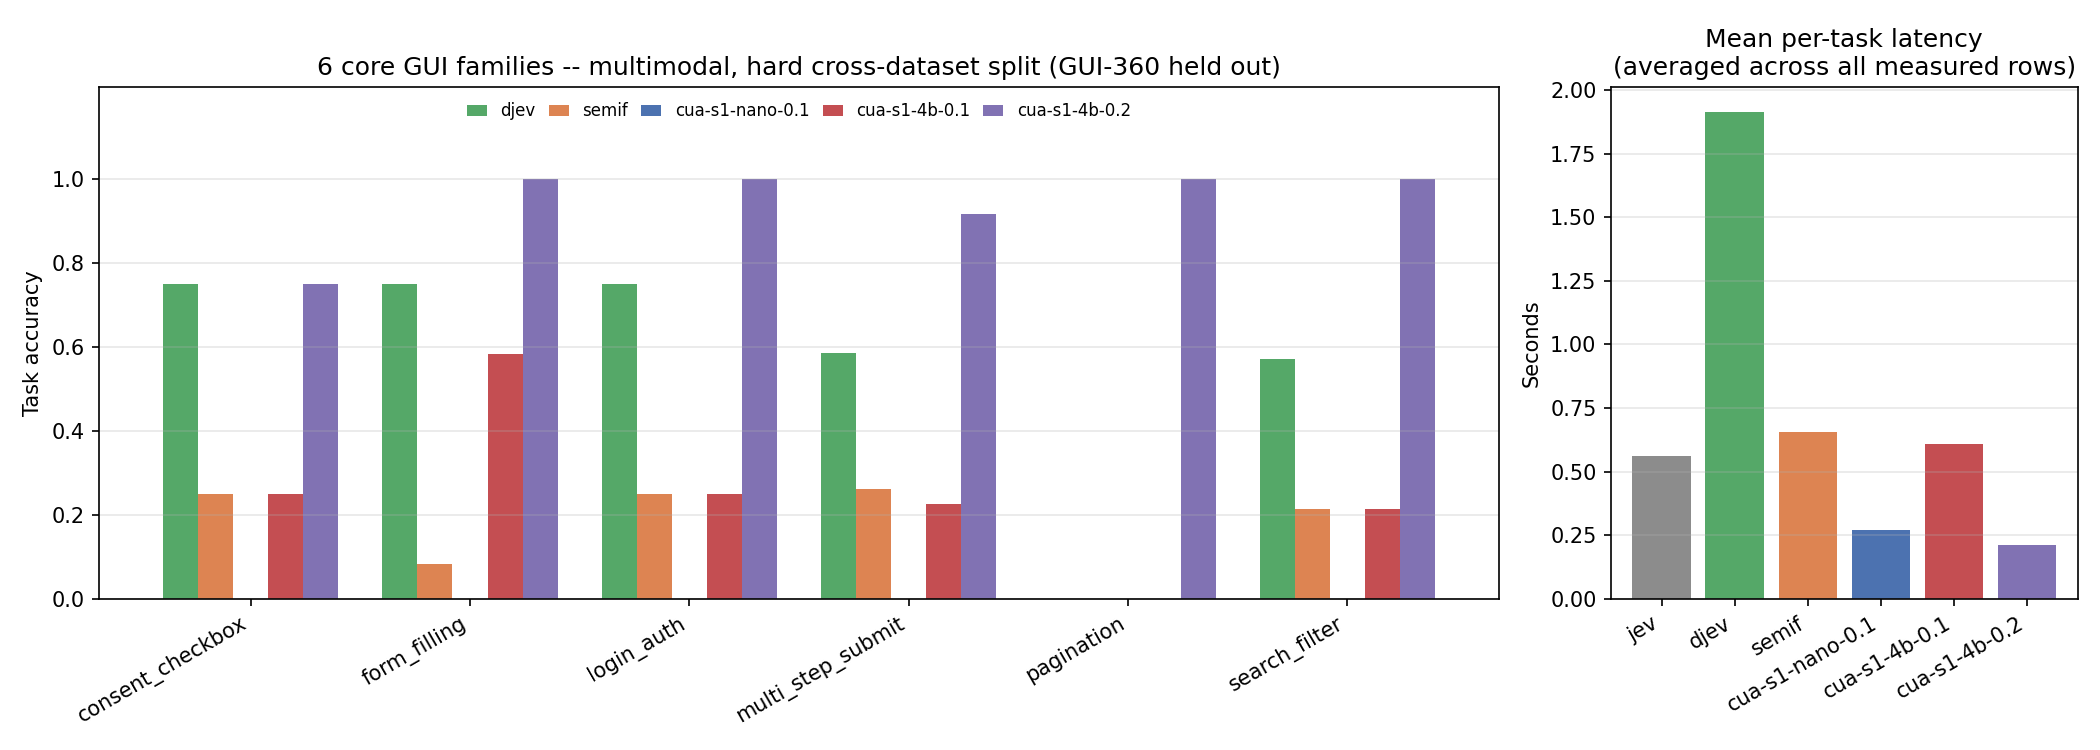
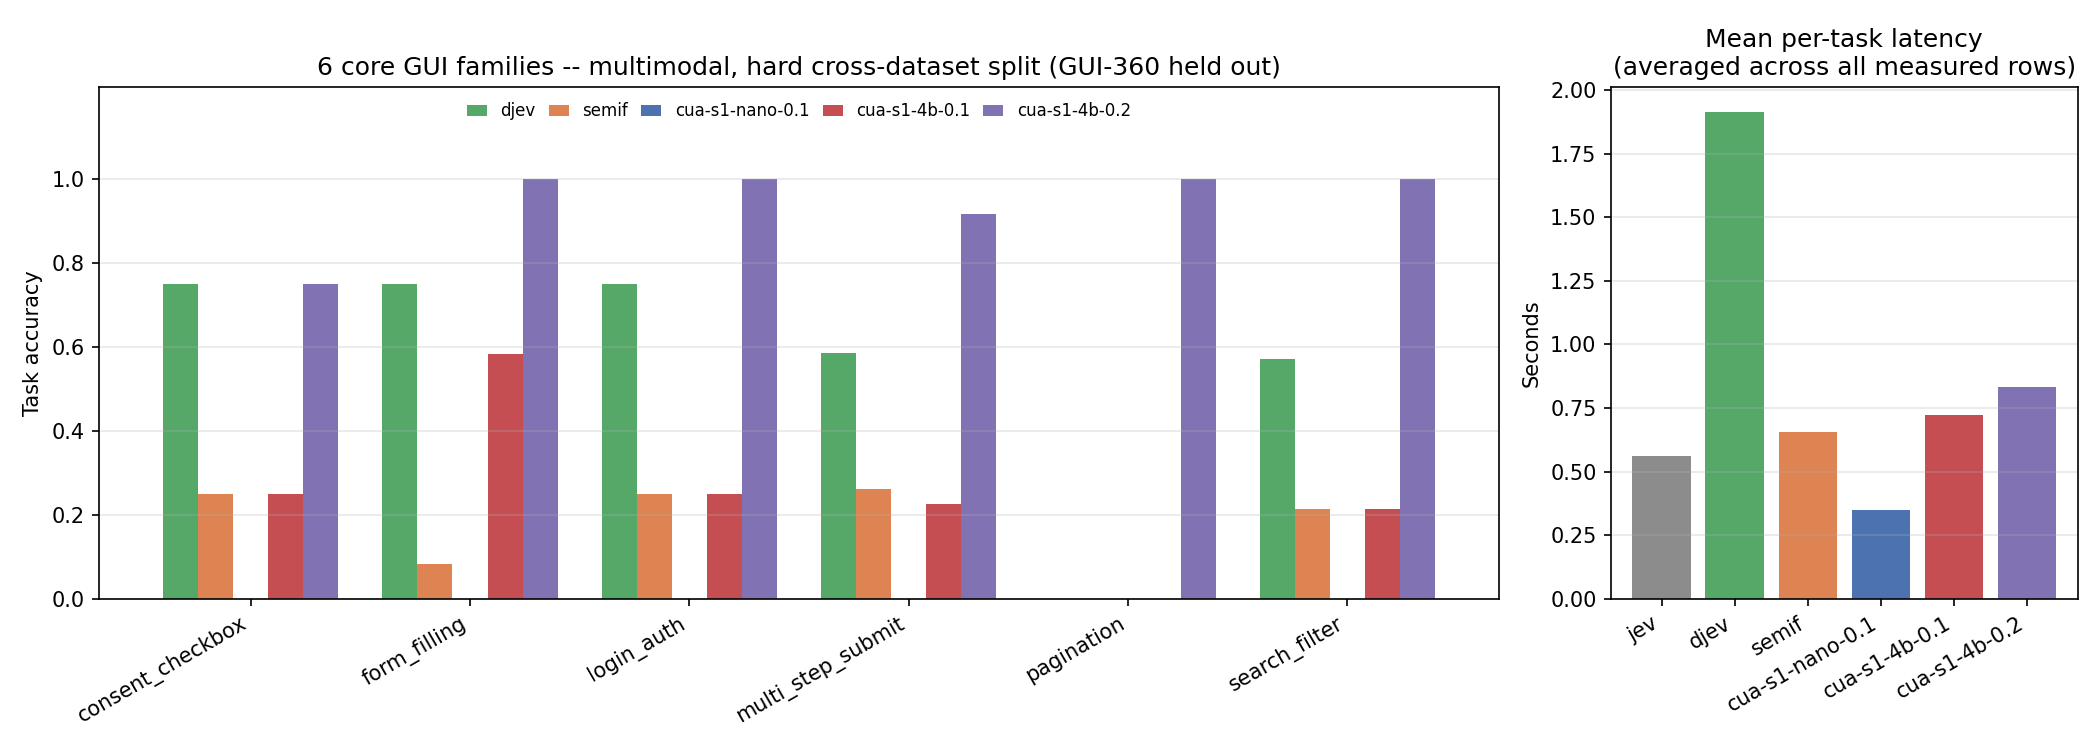
docs(cua-bench-s1): close cua-s1-4b-0.2 result gaps with real measurements

Changed region(s): [[0.8667, 0.4907, 0.9905, 0.736]]

diff --git a/libs/cua-bench-s1/scripts/render_results_chart.py b/libs/cua-bench-s1/scripts/render_results_chart.py
@@ -49,6 +49,7 @@ GENERAL_DECISION = {
     "djev": 0.623,
     "semif": 0.563,
     "cua-s1-4b-0.1": 0.632,
+    "cua-s1-4b-0.2": 0.887,
 }
 
 # Multimodal, hard cross-dataset split (GUI-360 held out, per-family N=1-133).
@@ -66,9 +67,9 @@ LATENCY_ROWS = {
     "jev": [0.556, None, None, 0.553, None, 0.534, None, None, 0.597, None],
     "djev": [0.809, 1.195, 1.017, 3.061, 3.389, 3.168, 3.450, 1.172, 0.858, 1.029],
     "semif": [0.121, 0.293, 0.283, 1.078, 1.557, 1.117, 1.151, 0.300, 0.157, 0.496],
-    "cua-s1-nano-0.1": [0.003, 0.222, 0.667, 0.0145, None, 0.015, 0.739, 0.206, None, 0.306],
-    "cua-s1-4b-0.1": [0.1245, 0.345, 0.301, 1.096, None, 1.274, 1.355, 0.343, 0.203, 0.445],
-    "cua-s1-4b-0.2": [0.141, None, 0.282, None, None, None, None, None, None, None],
+    "cua-s1-nano-0.1": [0.003, 0.222, 0.667, 0.0145, 0.967, 0.015, 0.739, 0.206, None, 0.306],
+    "cua-s1-4b-0.1": [0.1245, 0.345, 0.301, 1.096, 1.745, 1.274, 1.355, 0.343, 0.203, 0.445],
+    "cua-s1-4b-0.2": [0.141, 0.401, 0.282, 1.613, 1.671, 1.515, 1.512, 0.395, 0.224, 0.569],
 }
 
 

diff --git a/libs/cua-bench-s1/README.md b/libs/cua-bench-s1/README.md
@@ -48,30 +48,30 @@ below).
 | `multi_step_submit` | text, hard cross-dataset (GUI-360) | 0.250 | 0.034 | 0.696 | 0.340 | 0.000 | 0.322 | **0.867** |
 | `pagination` | text, hard cross-dataset (GUI-360) | 0.250 | 0.000 | 0.000 | 0.286 | 0.000 | **0.571** | 0.429 |
 | `search_filter` | text, hard cross-dataset (GUI-360) | 0.250 | 0.021 | 0.604 | 0.354 | 0.000 | 0.271 | **0.958** |
-| `consent_checkbox` | multimodal, same-distribution | 0.232 | n/a | 0.071 | 0.357 | **1.000** | 1.000 | — |
-| `form_filling` | multimodal, same-distribution | 0.044 | n/a | 0.000 | 0.100 | **1.000** | 1.000 | — |
-| `login_auth` | multimodal, same-distribution | 0.169 | n/a | 0.000 | 0.235 | **1.000** | 1.000 | — |
-| `multi_step_submit` | multimodal, same-distribution | 0.188 | n/a | 0.750 | 0.167 | **1.000** | 1.000 | — |
-| `pagination` | multimodal, same-distribution | 0.500 | n/a | 0.444 | 0.000 | **1.000** | 1.000 | — |
-| `search_filter` | multimodal, same-distribution | 0.130 | n/a | 0.429 | 0.214 | **1.000** | 1.000 | — |
+| `consent_checkbox` | multimodal, same-distribution (0.1's split) | 0.232 | n/a | 0.071 | 0.357 | **1.000** | 1.000 | 0.071 |
+| `form_filling` | multimodal, same-distribution (0.1's split) | 0.044 | n/a | 0.000 | 0.100 | **1.000** | 1.000 | 0.000 |
+| `login_auth` | multimodal, same-distribution (0.1's split) | 0.169 | n/a | 0.000 | 0.235 | **1.000** | 1.000 | 0.059 |
+| `multi_step_submit` | multimodal, same-distribution (0.1's split) | 0.188 | n/a | 0.750 | 0.167 | **1.000** | 1.000 | 0.000 |
+| `pagination` | multimodal, same-distribution (0.1's split) | 0.500 | n/a | 0.444 | 0.000 | **1.000** | 1.000 | 0.778 |
+| `search_filter` | multimodal, same-distribution (0.1's split) | 0.130 | n/a | 0.429 | 0.214 | **1.000** | 1.000 | 0.214 |
 | `consent_checkbox` | multimodal, hard cross-dataset (GUI-360), N=4 | 0.250 | n/a | **0.750** | 0.250 | 0.000 | 0.250 | **0.750** |
 | `form_filling` | multimodal, hard cross-dataset (GUI-360), N=12 | 0.250 | n/a | 0.750 | 0.083 | 0.000 | 0.583 | **1.000** |
 | `login_auth` | multimodal, hard cross-dataset (GUI-360), N=4 | 0.250 | n/a | 0.750 | 0.250 | 0.000 | 0.250 | **1.000** |
 | `multi_step_submit` | multimodal, hard cross-dataset (GUI-360), N=133 | 0.250 | n/a | 0.586 | 0.263 | 0.000 | 0.226 | **0.917** |
 | `pagination` | multimodal, hard cross-dataset (GUI-360), N=1 | 0.250 | n/a | 0.000 | 0.000 | 0.000 | 0.000 | **1.000** |
 | `search_filter` | multimodal, hard cross-dataset (GUI-360), N=14 | 0.250 | n/a | 0.571 | 0.214 | 0.000 | 0.214 | **1.000** |
-| `safety_gate` | text, zero-shot | 0.138 | 0.286 | **0.500** | 0.000 | 0.000 | 0.071 | — |
-| `safety_gate` | multimodal, zero-shot | 0.138 | n/a | **0.286** | 0.000 | — | — | — |
-| `safety_gate` | text, finetuned on own train split | 0.138 | — | — | — | 1.000 | **1.000** | — |
-| `chess` | text, task accuracy (fair N=15, all models capped equally) | 0.072 | **0.133** | 0.000 | 0.000 | 0.000 | 0.000 | — |
-| `chess` | text, element accuracy (fair N=15) | 0.500 | **0.682** | 0.227 | 0.424 | 0.227 | 0.515 | — |
-| `chess` | multimodal, task accuracy (fair N=15) | 0.072 | n/a | 0.000 | 0.000 | 0.000 | 0.000 | — |
-| `chess` | multimodal, element accuracy (fair N=15) | 0.500 | n/a | 0.227 | **0.409** | 0.227 | 0.227 | — |
-| `game_control` | multimodal, task accuracy | 0.125 | n/a | 0.000 | 0.000 | 0.000 | 0.000 | — |
-| `game_control` | multimodal, element accuracy | 0.500 | n/a | 0.333 | 0.333 | 0.333 | 0.333 | — |
-| `general_decision` (external `jevbench`) | text, zero-shot, out-of-domain | 0.500 | **0.667** | 0.623 | 0.563 | n/a | 0.632 | — |
-| `osworld_next_action` (external OSWorld) | multimodal, task accuracy, out-of-domain | 0.066 | n/a | 0.000 | **0.083** | 0.000 | 0.000 | — |
-| `osworld_next_action` (external OSWorld) | multimodal, element accuracy, out-of-domain | 0.500 | n/a | 0.252 | **0.531** | 0.252 | 0.271 | — |
+| `safety_gate` | text, zero-shot for others; in-distribution (not zero-shot) for 0.2 | 0.138 | 0.286 | 0.500 | 0.000 | 0.000 | 0.071 | **1.000** |
+| `safety_gate` | multimodal, zero-shot | 0.138 | n/a | 0.286 | 0.000 | 0.000 | 0.000 | **0.643** |
+| `safety_gate` | text, finetuned on own train split | 0.138 | n/a | n/a | n/a | 1.000 | 1.000 | **1.000** |
+| `chess` | text, task accuracy (fair N=15, all models capped equally) | 0.072 | **0.133** | 0.000 | 0.000 | 0.000 | 0.000 | 0.067 |
+| `chess` | text, element accuracy (fair N=15) | 0.500 | **0.682** | 0.227 | 0.424 | 0.227 | 0.515 | 0.576 |
+| `chess` | multimodal, task accuracy (fair N=15) | 0.072 | n/a | 0.000 | 0.000 | 0.000 | 0.000 | 0.000 |
+| `chess` | multimodal, element accuracy (fair N=15) | 0.500 | n/a | 0.227 | **0.409** | 0.227 | 0.227 | 0.258 |
+| `game_control` | multimodal, task accuracy | 0.125 | n/a | 0.000 | 0.000 | 0.000 | 0.000 | **0.024** |
+| `game_control` | multimodal, element accuracy | 0.500 | n/a | 0.333 | 0.333 | 0.333 | 0.333 | **0.569** |
+| `general_decision` (external `jevbench`) | text, zero-shot, out-of-domain | 0.500 | 0.667 | 0.623 | 0.563 | n/a | 0.632 | **0.887** |
+| `osworld_next_action` (external OSWorld) | multimodal, task accuracy, out-of-domain | 0.066 | n/a | 0.000 | **0.083** | 0.000 | 0.000 | 0.013 |
+| `osworld_next_action` (external OSWorld) | multimodal, element accuracy, out-of-domain | 0.500 | n/a | 0.252 | **0.531** | 0.252 | 0.271 | 0.435 |
 | `cua_bench_basic` (real live envs, agentic) | text, RL, held-out task variants, N=18 | — | — | — | — | — | — | **0.944** |
 | `cua_bench_basic` (real live envs, agentic) | multimodal, RL, held-out task variants, N=18 | — | — | — | — | — | — | **0.722** |
 
@@ -89,9 +89,15 @@ Notes on reading the table above:
   0.360); `semif` is 0.244 overall; `cua-s1-4b-0.2`'s overall is 0.929 (ECE
   0.069). `consent_checkbox` (N=4) is a tie between `djev` and
   `cua-s1-4b-0.2`, not a win.
-- `cua-s1-4b-0.2` is unmeasured (not just inapplicable) on `general_decision`,
-  `safety_gate`, `chess`, `game_control` and `osworld_next_action`, hence
-  `—` rather than `n/a`.
+- `cua-s1-4b-0.2`'s SFT training split (`crossdataset_hard_v2`) includes
+  `safety_gate`-family tasks (no overlap with the `safety_gate` test set),
+  so its `safety_gate` row is in-distribution, not zero-shot like the other
+  models'. Its "finetuned" cell uses the same recipe as `cua-s1-4b-0.1`'s
+  (a fresh LoRA on `data/safety_gate/train.jsonl`), not a further-tuned 0.2.
+- The "multimodal, same-distribution" rows are `data/v1`, the split
+  `cua-s1-nano-0.1`/`cua-s1-4b-0.1` trained on; `cua-s1-4b-0.2` trained on a
+  different split (`crossdataset_hard_v2`) and never saw `data/v1`, so its
+  cells in this row are out-of-distribution, not same-distribution.
 - `pagination` (N=7 text, N=1 multimodal): every task in this family is a
   mid-episode `scroll` step misfiled by a family-taxonomy keyword heuristic
   (`datagen/androidcontrol.assign_family`), not a genuine pagination
@@ -129,30 +135,30 @@ than guessing," not "the raw score was 0."
 | `multi_step_submit`, text hard cross-dataset | 0.250 | 0.000 | 0.594 | 0.120 | 0.000 | 0.096 | **0.822** |
 | `pagination`, text hard cross-dataset | 0.250 | 0.000 | 0.000 | 0.048 | 0.000 | **0.428** | 0.238 |
 | `search_filter`, text hard cross-dataset | 0.250 | 0.000 | 0.472 | 0.139 | 0.000 | 0.028 | **0.944** |
-| `consent_checkbox`, multimodal same-distribution | 0.232 | n/a | 0.000 | 0.163 | **1.000** | **1.000** | — |
-| `form_filling`, multimodal same-distribution | 0.044 | n/a | 0.000 | 0.058 | **1.000** | **1.000** | — |
-| `login_auth`, multimodal same-distribution | 0.169 | n/a | 0.000 | 0.079 | **1.000** | **1.000** | — |
-| `multi_step_submit`, multimodal same-distribution | 0.188 | n/a | 0.692 | 0.000 | **1.000** | **1.000** | — |
-| `pagination`, multimodal same-distribution | 0.500 | n/a | 0.000 | 0.000 | **1.000** | **1.000** | — |
-| `search_filter`, multimodal same-distribution | 0.130 | n/a | 0.344 | 0.097 | **1.000** | **1.000** | — |
+| `consent_checkbox`, multimodal same-distribution | 0.232 | n/a | 0.000 | 0.163 | **1.000** | **1.000** | 0.000 |
+| `form_filling`, multimodal same-distribution | 0.044 | n/a | 0.000 | 0.058 | **1.000** | **1.000** | 0.000 |
+| `login_auth`, multimodal same-distribution | 0.169 | n/a | 0.000 | 0.079 | **1.000** | **1.000** | 0.000 |
+| `multi_step_submit`, multimodal same-distribution | 0.188 | n/a | 0.692 | 0.000 | **1.000** | **1.000** | 0.000 |
+| `pagination`, multimodal same-distribution | 0.500 | n/a | 0.000 | 0.000 | **1.000** | **1.000** | **0.556** |
+| `search_filter`, multimodal same-distribution | 0.130 | n/a | 0.344 | 0.097 | **1.000** | **1.000** | 0.097 |
 | `consent_checkbox`, multimodal hard cross-dataset | 0.250 | n/a | **0.667** | 0.000 | 0.000 | 0.000 | **0.667** |
 | `form_filling`, multimodal hard cross-dataset | 0.250 | n/a | 0.667 | 0.000 | 0.000 | 0.444 | **1.000** |
 | `login_auth`, multimodal hard cross-dataset | 0.250 | n/a | 0.667 | 0.000 | 0.000 | 0.000 | **1.000** |
 | `multi_step_submit`, multimodal hard cross-dataset | 0.250 | n/a | 0.448 | 0.017 | 0.000 | 0.000 | **0.889** |
 | `pagination`, multimodal hard cross-dataset | 0.250 | n/a | 0.000 | 0.000 | 0.000 | 0.000 | **1.000** |
 | `search_filter`, multimodal hard cross-dataset | 0.250 | n/a | 0.428 | 0.000 | 0.000 | 0.000 | **1.000** |
-| `safety_gate`, text zero-shot | 0.138 | 0.171 | **0.420** | 0.000 | 0.000 | 0.000 | — |
-| `safety_gate`, multimodal zero-shot | 0.138 | n/a | **0.171** | 0.000 | — | — | — |
-| `safety_gate`, finetuned | 0.138 | — | — | — | 1.000 | **1.000** | — |
-| `chess`, text, task accuracy (N=15) | 0.072 | **0.065** | 0.000 | 0.000 | 0.000 | 0.000 | — |
-| `chess`, text, element accuracy (N=15) | 0.500 | **0.364** | 0.000 | 0.000 | 0.000 | 0.030 | — |
-| `chess`, multimodal, task accuracy (N=15) | 0.072 | n/a | 0.000 | 0.000 | 0.000 | 0.000 | — |
-| `chess`, multimodal, element accuracy (N=15) | 0.500 | n/a | 0.000 | 0.000 | 0.000 | 0.000 | — |
-| `game_control`, task accuracy | 0.125 | n/a | 0.000 | 0.000 | 0.000 | 0.000 | — |
-| `game_control`, element accuracy | 0.500 | n/a | 0.000 | 0.000 | 0.000 | 0.000 | — |
-| `general_decision` (jevbench) | 0.500 | **0.334** | 0.246 | 0.126 | n/a | 0.264 | — |
-| `osworld_next_action`, task accuracy | 0.066 | n/a | 0.000 | **0.018** | 0.000 | 0.000 | — |
-| `osworld_next_action`, element accuracy | 0.500 | n/a | 0.000 | **0.062** | 0.000 | 0.000 | — |
+| `safety_gate`, text (0.2 in-distribution, others zero-shot) | 0.138 | 0.171 | 0.420 | 0.000 | 0.000 | 0.000 | **1.000** |
+| `safety_gate`, multimodal zero-shot | 0.138 | n/a | 0.171 | 0.000 | 0.000 | 0.000 | **0.586** |
+| `safety_gate`, finetuned | 0.138 | n/a | n/a | n/a | 1.000 | 1.000 | **1.000** |
+| `chess`, text, task accuracy (N=15) | 0.072 | **0.065** | 0.000 | 0.000 | 0.000 | 0.000 | 0.000 |
+| `chess`, text, element accuracy (N=15) | 0.500 | **0.364** | 0.000 | 0.000 | 0.000 | 0.030 | 0.152 |
+| `chess`, multimodal, task accuracy (N=15) | 0.072 | n/a | 0.000 | 0.000 | 0.000 | 0.000 | 0.000 |
+| `chess`, multimodal, element accuracy (N=15) | 0.500 | n/a | 0.000 | 0.000 | 0.000 | 0.000 | 0.000 |
+| `game_control`, task accuracy | 0.125 | n/a | 0.000 | 0.000 | 0.000 | 0.000 | 0.000 |
+| `game_control`, element accuracy | 0.500 | n/a | 0.000 | 0.000 | 0.000 | 0.000 | **0.138** |
+| `general_decision` (jevbench) | 0.500 | 0.334 | 0.246 | 0.126 | n/a | 0.264 | **0.775** |
+| `osworld_next_action`, task accuracy | 0.066 | n/a | 0.000 | **0.018** | 0.000 | 0.000 | 0.000 |
+| `osworld_next_action`, element accuracy | 0.500 | n/a | 0.000 | **0.062** | 0.000 | 0.000 | 0.000 |
 
 `chess` and `game_control` do not show measurable signal on any model once
 calibrated: their raw ties/edges over 0 sit at or below true chance level for
@@ -207,15 +213,15 @@ runs (`jev` is a hosted API round-trip; `djev`/`semif` ran locally on GPU;
 | Split / modality | `jev` | `djev` | `semif` (0-shot) | `cua-s1-nano-0.1` | `cua-s1-4b-0.1` | `cua-s1-4b-0.2` |
 | --- | --- | --- | --- | --- | --- | --- |
 | 6 core families, text, hard cross-dataset | 0.556 | 0.809 | 0.121 | 0.003 | 0.121-0.128 | 0.141 |
-| 6 core families, multimodal, same-distribution | n/a | 1.195 | 0.293 | 0.222 | 0.345 | — |
+| 6 core families, multimodal, same-distribution | n/a | 1.195 | 0.293 | 0.222 | 0.345 | 0.401 |
 | 6 core families, multimodal, hard cross-dataset | n/a | 1.017 | 0.283 | 0.667 | 0.301 | 0.282 |
-| `safety_gate`, text | 0.553 | 3.061 | 1.078 | — | — | — |
-| `safety_gate`, multimodal | n/a | 3.389 | 1.557 | — | — | — |
-| `chess`, text (fair N=15, all models capped equally) | 0.534 | 3.168 | 1.117 | 0.015 | 1.274 | — |
-| `chess`, multimodal (fair N=15) | n/a | 3.450 | 1.151 | 0.739 | 1.355 | — |
-| `game_control`, multimodal | n/a | 1.172 | 0.300 | 0.206 | 0.343 | — |
-| `general_decision` (external `jevbench`) | 0.597 | 0.858 | 0.157 | n/a | 0.203 | — |
-| `osworld_next_action` | n/a | 1.029 | 0.496 | 0.306 | 0.445 | — |
+| `safety_gate`, text | 0.553 | 3.061 | 1.078 | — | — | 1.613 |
+| `safety_gate`, multimodal | n/a | 3.389 | 1.557 | 0.967 | 1.745 | 1.671 |
+| `chess`, text (fair N=15, all models capped equally) | 0.534 | 3.168 | 1.117 | 0.015 | 1.274 | 1.515 |
+| `chess`, multimodal (fair N=15) | n/a | 3.450 | 1.151 | 0.739 | 1.355 | 1.512 |
+| `game_control`, multimodal | n/a | 1.172 | 0.300 | 0.206 | 0.343 | 0.395 |
+| `general_decision` (external `jevbench`) | 0.597 | 0.858 | 0.157 | n/a | 0.203 | 0.224 |
+| `osworld_next_action` | n/a | 1.029 | 0.496 | 0.306 | 0.445 | 0.569 |
 
 ## Task families
 
